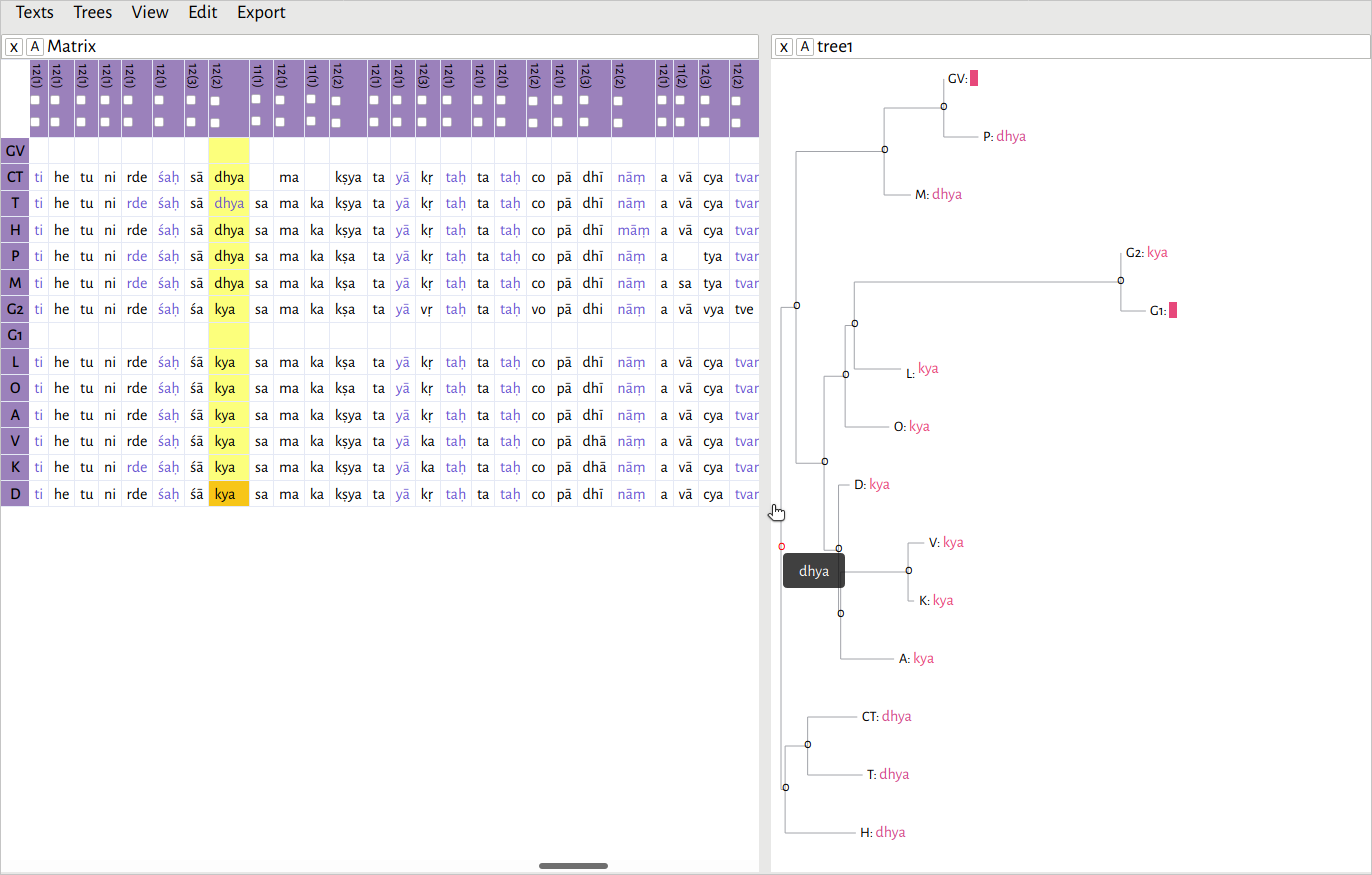
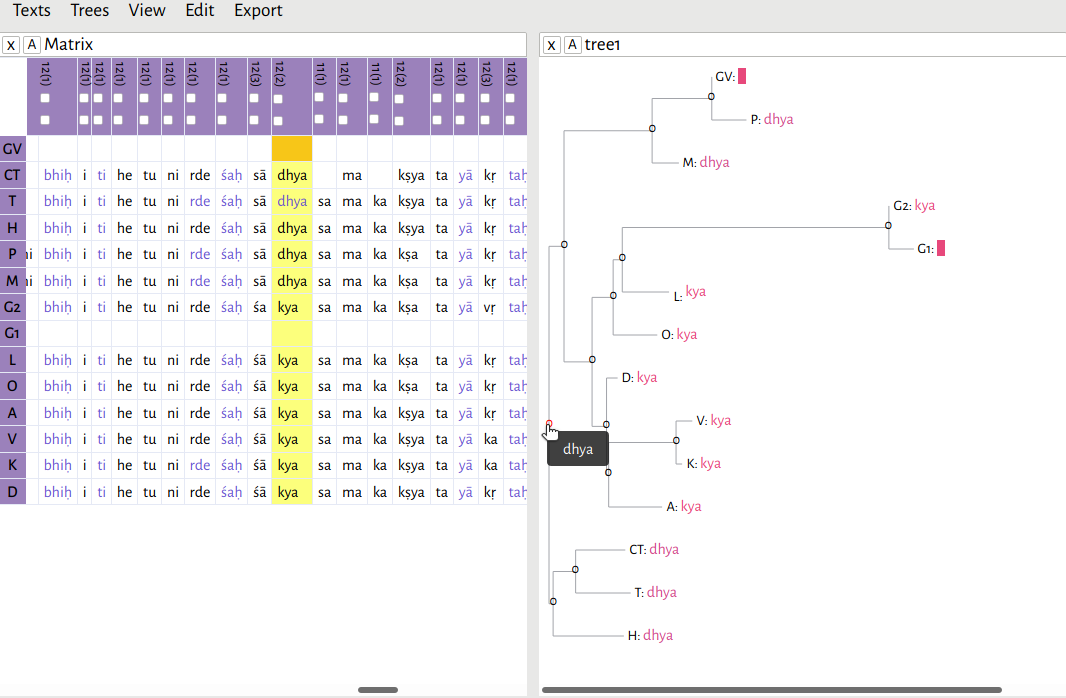
updated docs

diff --git a/docs/index.html b/docs/index.html
@@ -436,7 +436,7 @@ As I mentioned previously, I hypothesized there to be two main branches in this 
                 <img src="img/matrix-editor-4.png">
             </figure>
             <p>
-I re-rooted the tree, this time using C<sub>T</sub>, T, H, M, P, and G<sub>V</sub> as my outgroup (this file is available at <a href="https://github.com/chchch/sanskrit-alignment/tree/master/example/alternative-rooted-tree.xml"><code>example/alternative-rooted-tree.xml</code></a>). Now, both readings, <q>dhya</q> and <q>kya</q>, are equally weighted.<label class="margin-toggle sidenote-number" for="n-maas1"></label><input type="checkbox" id="n-maas1" class="margin-toggle" /><span class="sidenote">This is exactly the situation described in <a href="#b-maas1958">Maas 1958, 6</a>: <q>The reconstruction of α is a different matter. If its tradition has two branches only, β and γ, and β and γ agree, we have the text of α. If they do not agree, then either of the two readings may be the text of α; we have here <em>variants</em>, between which it is not possible to decide on the lines of our procedure hitherto.</q></span>
+I re-rooted the tree, this time using C<sub>T</sub>, T, H, M, P, and G<sub>V</sub> as my outgroup (this file is available at <a href="https://github.com/chchch/sanskrit-alignment/tree/master/example/alternative-rooted-tree.xml"><code>example/alternative-rooted-tree.xml</code></a>). Now, both readings, <q>kya</q> and <q>dhya</q>, are equally weighted.<label class="margin-toggle sidenote-number" for="n-maas1"></label><input type="checkbox" id="n-maas1" class="margin-toggle" /><span class="sidenote">This is exactly the situation described in <a href="#b-maas1958">Maas 1958, 6</a>: <q>The reconstruction of α is a different matter. If its tradition has two branches only, β and γ, and β and γ agree, we have the text of α. If they do not agree, then either of the two readings may be the text of α; we have here <em>variants</em>, between which it is not possible to decide on the lines of our procedure hitherto.</q></span>
             </p>
             <h3 id="reconstruction-passage">Reconstructing an entire passage</h3>
             <p>
